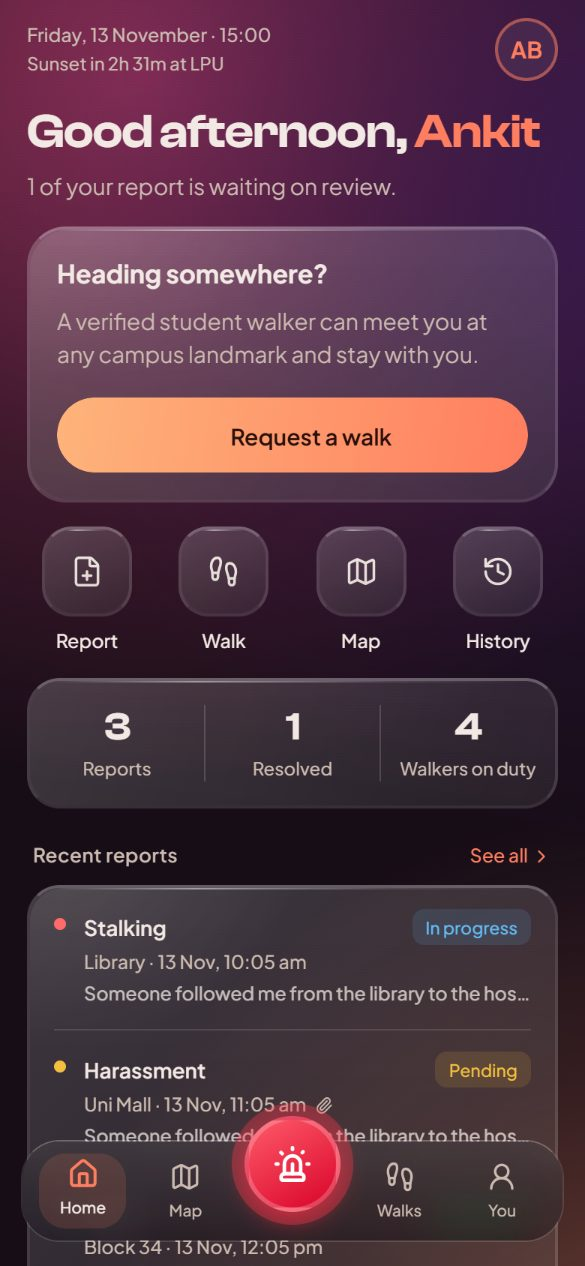
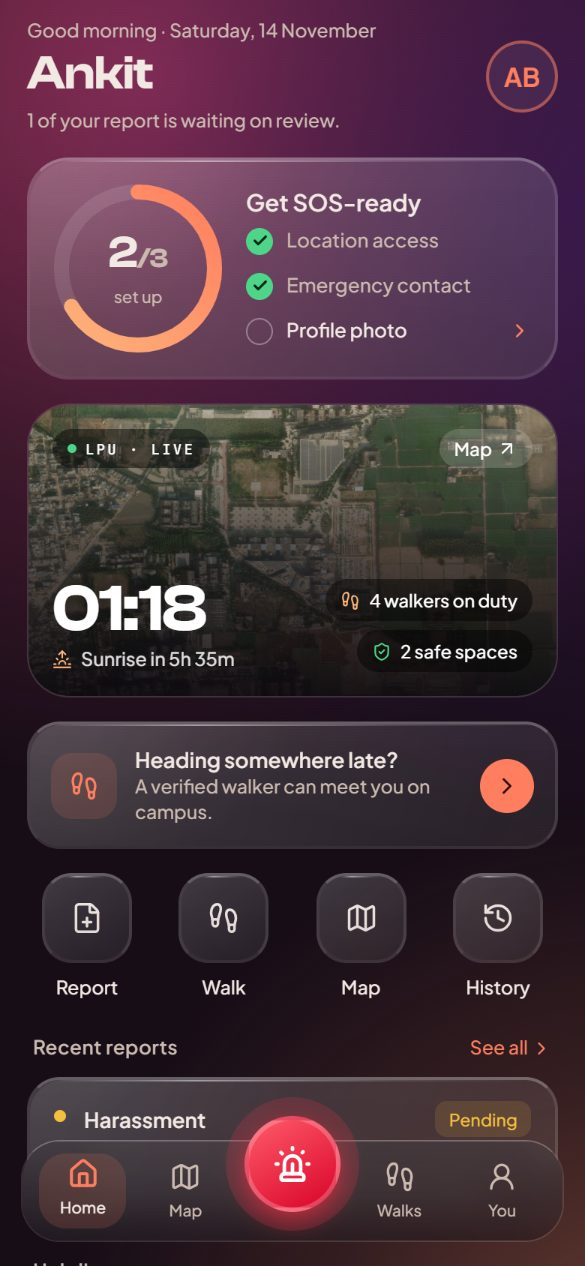
feat(mobile): a Home built around SOS readiness and the live campus
- Safety setup ring as the hero: location access, emergency contact and
  profile photo, the three things that make SOS work for you. An animated
  ring shows how many are done; each missing one is fixed with a tap
  (location asks for permission, the others open Profile).
- Campus card on a satellite image of LPU: the time in large type, the
  next sunrise or sunset, walkers on duty and safe spaces. Opens the map.
- The walk invitation becomes a slim row; the summary strip goes, as its
  numbers now live in the cards. The header puts your name first.
- Late night says "Good night" instead of "Good morning" at 1 a.m.
- README screenshot updated.

Design direction from current mobile work on Muzli: one strong visual
centrepiece, large confident numbers, and content that is about you.

diff --git a/mobile/src/app/(tabs)/index.tsx b/mobile/src/app/(tabs)/index.tsx
@@ -5,10 +5,10 @@ import { Linking, Pressable, StyleSheet, View } from 'react-native';
 import Animated, { FadeInDown } from 'react-native-reanimated';
 
 import { Avatar, Badge, Empty } from '@/components/bits';
-import { Button } from '@/components/Button';
-import { CountUp } from '@/components/CountUp';
+import { CampusCard } from '@/components/CampusCard';
 import { Glass } from '@/components/Glass';
 import { ReportRow } from '@/components/ReportRow';
+import { SafetyRing } from '@/components/SafetyRing';
 import { Screen } from '@/components/Screen';
 import { Skeleton } from '@/components/Skeleton';
 import { SourceBanner } from '@/components/SourceBanner';
@@ -81,40 +81,35 @@ export default function Home() {
         ? `${data.stats.pending} of your report${data.stats.pending === 1 ? ' is' : 's are'} waiting on review.`
         : 'Nothing needs your attention right now.';
 
-  const summary = [
-    { label: 'Reports', value: data?.stats.reports ?? 0 },
-    { label: 'Resolved', value: data?.stats.resolved ?? 0 },
-    { label: 'Walkers on duty', value: data?.stats.active_walkers ?? 0 },
-  ];
 
   return (
     <Screen refreshing={isRefetching} onRefresh={refetch}>
-      {/* Header: date and campus time, then a plain large title. */}
+      {/* Header: who you are and what needs attention. */}
       <Animated.View entering={reveal(0)} style={styles.header}>
         <View style={{ flex: 1, gap: 2 }}>
           <T variant="small" muted>
-            {today()} · {clock.time}
+            {greeting()} · {today()}
           </T>
-          <T variant="small" muted style={{ fontSize: 12 }}>
-            {clock.next} at LPU
-          </T>
+          {name ? (
+            <T variant="title" style={{ fontSize: 32, lineHeight: 37 }}>
+              {name}
+            </T>
+          ) : (
+            <Skeleton width={140} height={32} radius={10} style={{ marginVertical: 2 }} />
+          )}
+          {isLoading && !name ? null : (
+            <T variant="small" muted style={{ marginTop: 2 }}>
+              {subtitle}
+            </T>
+          )}
         </View>
         <Pressable onPress={() => router.navigate('/profile')} accessibilityLabel="Your profile" hitSlop={6}>
           {data ? (
-            <Avatar uri={absoluteUrl(data.user.photo)} name={`${data.user.first_name} ${data.user.last_name}`} size={42} />
+            <Avatar uri={absoluteUrl(data.user.photo)} name={`${data.user.first_name} ${data.user.last_name}`} size={48} />
           ) : (
-            <Skeleton width={42} height={42} radius={21} />
+            <Skeleton width={48} height={48} radius={24} />
           )}
         </Pressable>
-      </Animated.View>
-
-      <Animated.View entering={reveal(1)} style={{ gap: 6 }}>
-        <T variant="title" style={{ fontSize: 32, lineHeight: 37 }}>
-          {greeting()}
-          {name ? ', ' : ''}
-          {name ? <T variant="title" color={theme.primary} style={{ fontSize: 32, lineHeight: 37 }}>{name}</T> : null}
-        </T>
-        {isLoading && !name ? <Skeleton width={220} height={16} /> : <T muted>{subtitle}</T>}
       </Animated.View>
 
       <SourceBanner keys={['me']} />
@@ -128,8 +123,17 @@ export default function Home() {
         </Glass>
       )}
 
-      {/* The one focal panel: your walk, or an invitation to request one. */}
+      {/* The hero: how ready SOS is for you, with each missing piece one tap away. */}
+      <Animated.View entering={reveal(1)}>
+        <SafetyRing user={data?.user} />
+      </Animated.View>
+
       <Animated.View entering={reveal(2)}>
+        <CampusCard time={clock.time} next={clock.next} isDay={clock.isDay} walkers={data?.stats.active_walkers} safeSpaces={data?.stats.safe_spaces} />
+      </Animated.View>
+
+      {/* Your walk, or a quiet invitation to request one. */}
+      <Animated.View entering={reveal(3)}>
         {walk ? (
           <Glass strong radius={26} onPress={() => router.navigate('/walks')} style={styles.focus} accessibilityLabel="Your walk">
             <View style={styles.focusTop}>
@@ -159,36 +163,30 @@ export default function Home() {
             </T>
           </Glass>
         ) : (
-          <Glass strong radius={26} style={styles.focus}>
-            <T variant="heading">Heading somewhere?</T>
-            <T muted style={{ marginTop: -4 }}>
-              A verified student walker can meet you at any campus landmark and stay with you.
-            </T>
-            <Button label="Request a walk" icon={<Footprints size={17} color={theme.primaryForeground} />} onPress={() => router.navigate('/walks')} style={{ marginTop: 4 }} />
+          <Glass radius={22} onPress={() => router.navigate('/walks')} style={styles.invite} accessibilityLabel="Request a walk">
+            <View style={[styles.inviteIcon, { backgroundColor: theme.primary + '24' }]}>
+              <Footprints size={20} color={theme.primary} />
+            </View>
+            <View style={{ flex: 1 }}>
+              <T variant="label">Heading somewhere late?</T>
+              <T variant="small" muted>
+                A verified walker can meet you on campus.
+              </T>
+            </View>
+            <View style={[styles.inviteGo, { backgroundColor: theme.primary }]}>
+              <ChevronRight size={18} color={theme.primaryForeground} />
+            </View>
           </Glass>
         )}
       </Animated.View>
 
-      <Animated.View entering={reveal(3)} style={styles.quickRow}>
+      <Animated.View entering={reveal(4)} style={styles.quickRow}>
         <QuickAction icon={FilePlus} label="Report" onPress={() => router.push('/report')} />
         <QuickAction icon={Footprints} label="Walk" onPress={() => router.navigate('/walks')} />
         <QuickAction icon={Map} label="Map" onPress={() => router.navigate('/map')} />
         <QuickAction icon={History} label="History" onPress={() => router.push('/reports')} />
       </Animated.View>
 
-      {/* One summary strip instead of a grid of number cards. */}
-      <Animated.View entering={reveal(4)}>
-        <Glass radius={22} flat style={styles.strip}>
-          {summary.map((s, i) => (
-            <View key={s.label} style={[styles.stripCell, i > 0 && styles.stripDivider]}>
-              {data ? <CountUp value={s.value} style={{ fontSize: 26, lineHeight: 30 }} /> : <Skeleton width={30} height={26} />}
-              <T variant="small" muted numberOfLines={1} style={{ fontSize: 12 }}>
-                {s.label}
-              </T>
-            </View>
-          ))}
-        </Glass>
-      </Animated.View>
 
       <SectionTitle title="Recent reports" action="See all" onAction={() => router.push('/reports')} />
       <Animated.View entering={reveal(5)}>
@@ -233,6 +231,9 @@ export default function Home() {
 
 const styles = StyleSheet.create({
   header: { flexDirection: 'row', alignItems: 'center', gap: 12 },
+  invite: { flexDirection: 'row', alignItems: 'center', gap: 12, padding: 14 },
+  inviteIcon: { width: 44, height: 44, borderRadius: 14, alignItems: 'center', justifyContent: 'center' },
+  inviteGo: { width: 36, height: 36, borderRadius: 18, alignItems: 'center', justifyContent: 'center' },
   notice: { flexDirection: 'row', alignItems: 'center', gap: 10, padding: 14 },
   focus: { padding: 18, gap: 14 },
   focusTop: { flexDirection: 'row', alignItems: 'center', justifyContent: 'space-between' },

diff --git a/mobile/src/components/SafetyRing.tsx b/mobile/src/components/SafetyRing.tsx
@@ -1,0 +1,130 @@
+import * as Haptics from 'expo-haptics';
+import * as Location from 'expo-location';
+import { router, useFocusEffect } from 'expo-router';
+import { Check, ChevronRight } from 'lucide-react-native';
+import { useCallback, useEffect, useState } from 'react';
+import { Pressable, StyleSheet, View } from 'react-native';
+import Animated, { Easing, useAnimatedProps, useSharedValue, withTiming } from 'react-native-reanimated';
+import Svg, { Circle, Defs, LinearGradient, Stop } from 'react-native-svg';
+
+import type { Me } from '@/lib/queries';
+import { status, useTheme } from '@/lib/theme';
+
+import { Glass } from './Glass';
+import { T } from './Text';
+
+const AnimatedCircle = Animated.createAnimatedComponent(Circle);
+const SIZE = 112;
+const STROKE = 10;
+const R = (SIZE - STROKE) / 2;
+const C = 2 * Math.PI * R;
+
+// The three things that make SOS work for you. Each unfinished one can be fixed from here.
+export function SafetyRing({ user }: { user: Me['user'] | undefined }) {
+  const theme = useTheme();
+  const [location, setLocation] = useState<boolean | null>(null);
+
+  // Re-check when Home comes back into view, e.g. after changing it in settings.
+  useFocusEffect(
+    useCallback(() => {
+      Location.getForegroundPermissionsAsync()
+        .then((p) => setLocation(p.granted))
+        .catch(() => setLocation(false));
+    }, []),
+  );
+
+  const steps = [
+    {
+      label: 'Location access',
+      hint: 'Sent with every SOS',
+      done: location === true,
+      fix: async () => {
+        const p = await Location.requestForegroundPermissionsAsync();
+        setLocation(p.granted);
+        if (p.granted) Haptics.notificationAsync(Haptics.NotificationFeedbackType.Success);
+      },
+    },
+    { label: 'Emergency contact', hint: 'SOS offers to call them', done: !!user?.emergency_contact_phone, fix: () => router.navigate('/profile') },
+    { label: 'Profile photo', hint: 'Helps your walker find you', done: !!user?.photo, fix: () => router.navigate('/profile') },
+  ];
+  const done = steps.filter((s) => s.done).length;
+  const ready = done === steps.length;
+
+  const progress = useSharedValue(0);
+  useEffect(() => {
+    progress.set(withTiming(done / steps.length, { duration: 900, easing: Easing.out(Easing.cubic) }));
+  }, [done, steps.length, progress]);
+  const ringProps = useAnimatedProps(() => ({ strokeDashoffset: C * (1 - progress.value) }));
+
+  return (
+    <Glass strong radius={28} style={styles.card}>
+      <View style={styles.ring}>
+        <Svg width={SIZE} height={SIZE}>
+          <Defs>
+            <LinearGradient id="safetyRing" x1="0" y1="0" x2="1" y2="1">
+              <Stop offset="0" stopColor={ready ? status.good : theme.accent} />
+              <Stop offset="1" stopColor={ready ? '#2fb36f' : theme.primary} />
+            </LinearGradient>
+          </Defs>
+          <Circle cx={SIZE / 2} cy={SIZE / 2} r={R} stroke="rgba(255,255,255,0.1)" strokeWidth={STROKE} fill="none" />
+          <AnimatedCircle
+            cx={SIZE / 2}
+            cy={SIZE / 2}
+            r={R}
+            stroke="url(#safetyRing)"
+            strokeWidth={STROKE}
+            strokeLinecap="round"
+            fill="none"
+            strokeDasharray={`${C} ${C}`}
+            animatedProps={ringProps}
+            transform={`rotate(-90 ${SIZE / 2} ${SIZE / 2})`}
+          />
+        </Svg>
+        <View style={styles.ringCenter} pointerEvents="none">
+          <T variant="title" style={{ fontSize: 30, lineHeight: 32 }}>
+            {done}
+            <T variant="title" muted style={{ fontSize: 18 }}>
+              /{steps.length}
+            </T>
+          </T>
+          <T variant="small" muted style={{ fontSize: 11 }}>
+            {ready ? 'ready' : 'set up'}
+          </T>
+        </View>
+      </View>
+
+      <View style={{ flex: 1, gap: 4 }}>
+        <T variant="label" style={{ fontSize: 15.5 }}>
+          {ready ? "You're SOS-ready" : 'Get SOS-ready'}
+        </T>
+        {steps.map((s) => (
+          <Pressable
+            key={s.label}
+            onPress={s.done ? undefined : s.fix}
+            disabled={s.done}
+            style={styles.step}
+            accessibilityRole={s.done ? undefined : 'button'}
+            accessibilityLabel={s.done ? `${s.label}: done` : `${s.label}: set up`}>
+            <View style={[styles.tick, s.done ? { backgroundColor: status.good } : { borderColor: 'rgba(255,255,255,0.35)', borderWidth: 1.5 }]}>
+              {s.done ? <Check size={11} color="#0b2a17" strokeWidth={3.5} /> : null}
+            </View>
+            <View style={{ flex: 1 }}>
+              <T variant="small" color={s.done ? theme.muted : theme.foreground} style={{ fontSize: 13 }}>
+                {s.label}
+              </T>
+            </View>
+            {!s.done ? <ChevronRight size={15} color={theme.primary} /> : null}
+          </Pressable>
+        ))}
+      </View>
+    </Glass>
+  );
+}
+
+const styles = StyleSheet.create({
+  card: { flexDirection: 'row', alignItems: 'center', gap: 16, padding: 16 },
+  ring: { width: SIZE, height: SIZE, alignItems: 'center', justifyContent: 'center' },
+  ringCenter: { position: 'absolute', alignItems: 'center' },
+  step: { flexDirection: 'row', alignItems: 'center', gap: 9, paddingVertical: 4 },
+  tick: { width: 18, height: 18, borderRadius: 9, alignItems: 'center', justifyContent: 'center' },
+});

diff --git a/mobile/src/components/CampusCard.tsx b/mobile/src/components/CampusCard.tsx
@@ -1,0 +1,86 @@
+import * as Haptics from 'expo-haptics';
+import { Image } from 'expo-image';
+import { LinearGradient } from 'expo-linear-gradient';
+import { router } from 'expo-router';
+import { ArrowUpRight, Footprints, ShieldCheck, Sunrise, Sunset } from 'lucide-react-native';
+import { Pressable, StyleSheet, View } from 'react-native';
+
+import { status, useTheme } from '@/lib/theme';
+
+import { T } from './Text';
+
+type Props = { time: string; next: string; isDay: boolean; walkers?: number; safeSpaces?: number };
+
+// The campus right now: a satellite view of LPU with the time, the next sunrise or
+// sunset, and who is around to help. Opens the map.
+export function CampusCard({ time, next, isDay, walkers, safeSpaces }: Props) {
+  const theme = useTheme();
+  const SunIcon = isDay ? Sunset : Sunrise;
+  return (
+    <Pressable
+      onPress={() => {
+        Haptics.selectionAsync();
+        router.navigate('/map');
+      }}
+      accessibilityRole="button"
+      accessibilityLabel={`Campus map. ${walkers ?? 0} walkers on duty, ${safeSpaces ?? 0} safe spaces.`}
+      style={({ pressed }) => [styles.card, pressed && { transform: [{ scale: 0.985 }] }]}>
+      <Image source={require('../../assets/images/campus.jpg')} style={StyleSheet.absoluteFill} contentFit="cover" transition={250} />
+      <LinearGradient colors={['rgba(10,6,12,0.15)', 'rgba(10,6,12,0.55)', 'rgba(10,6,12,0.92)']} locations={[0, 0.45, 1]} style={StyleSheet.absoluteFill} />
+
+      <View style={styles.top}>
+        <View style={styles.live}>
+          <View style={[styles.liveDot, { backgroundColor: status.good }]} />
+          <T variant="eyebrow" color="#fff" style={{ fontSize: 9.5 }}>
+            LPU · Live
+          </T>
+        </View>
+        <View style={styles.open}>
+          <T variant="small" color="#fff" style={{ fontSize: 12 }}>
+            Map
+          </T>
+          <ArrowUpRight size={14} color="#fff" />
+        </View>
+      </View>
+
+      <View style={styles.bottom}>
+        <View style={{ flex: 1 }}>
+          <T variant="display" color="#fff" style={{ fontSize: 44, lineHeight: 46, fontVariant: ['tabular-nums'] }}>
+            {time}
+          </T>
+          <View style={styles.sun}>
+            <SunIcon size={13} color={theme.accent} />
+            <T variant="small" color="rgba(255,255,255,0.85)">
+              {next}
+            </T>
+          </View>
+        </View>
+        <View style={{ gap: 6, alignItems: 'flex-end' }}>
+          <View style={styles.pill}>
+            <Footprints size={13} color={theme.accent} />
+            <T variant="small" color="#fff" style={{ fontSize: 12 }}>
+              {walkers ?? '–'} walkers on duty
+            </T>
+          </View>
+          <View style={styles.pill}>
+            <ShieldCheck size={13} color={status.good} />
+            <T variant="small" color="#fff" style={{ fontSize: 12 }}>
+              {safeSpaces ?? '–'} safe spaces
+            </T>
+          </View>
+        </View>
+      </View>
+    </Pressable>
+  );
+}
+
+const styles = StyleSheet.create({
+  card: { height: 196, borderRadius: 28, overflow: 'hidden', padding: 16, justifyContent: 'space-between', borderWidth: 1, borderColor: 'rgba(255,255,255,0.14)' },
+  top: { flexDirection: 'row', justifyContent: 'space-between', alignItems: 'center' },
+  live: { flexDirection: 'row', alignItems: 'center', gap: 6, paddingHorizontal: 10, height: 26, borderRadius: 13, backgroundColor: 'rgba(0,0,0,0.45)' },
+  liveDot: { width: 6, height: 6, borderRadius: 3 },
+  open: { flexDirection: 'row', alignItems: 'center', gap: 3, paddingHorizontal: 10, height: 26, borderRadius: 13, backgroundColor: 'rgba(255,255,255,0.16)' },
+  bottom: { flexDirection: 'row', alignItems: 'flex-end', gap: 10 },
+  sun: { flexDirection: 'row', alignItems: 'center', gap: 6, marginTop: 2 },
+  pill: { flexDirection: 'row', alignItems: 'center', gap: 6, paddingHorizontal: 10, height: 28, borderRadius: 14, backgroundColor: 'rgba(0,0,0,0.45)' },
+});

diff --git a/mobile/src/lib/format.ts b/mobile/src/lib/format.ts
@@ -27,6 +27,8 @@ export function istLocalString(d = new Date()) {
 
 export function greeting(d = new Date()) {
   const h = Number(d.toLocaleString('en-US', { hour: 'numeric', hour12: false, timeZone: 'Asia/Kolkata' }));
+  // "Good morning" at 1 a.m. reads wrong; late night gets its own greeting.
+  if (h < 5 || h >= 22) return 'Good night';
   return h < 12 ? 'Good morning' : h < 17 ? 'Good afternoon' : 'Good evening';
 }
 
